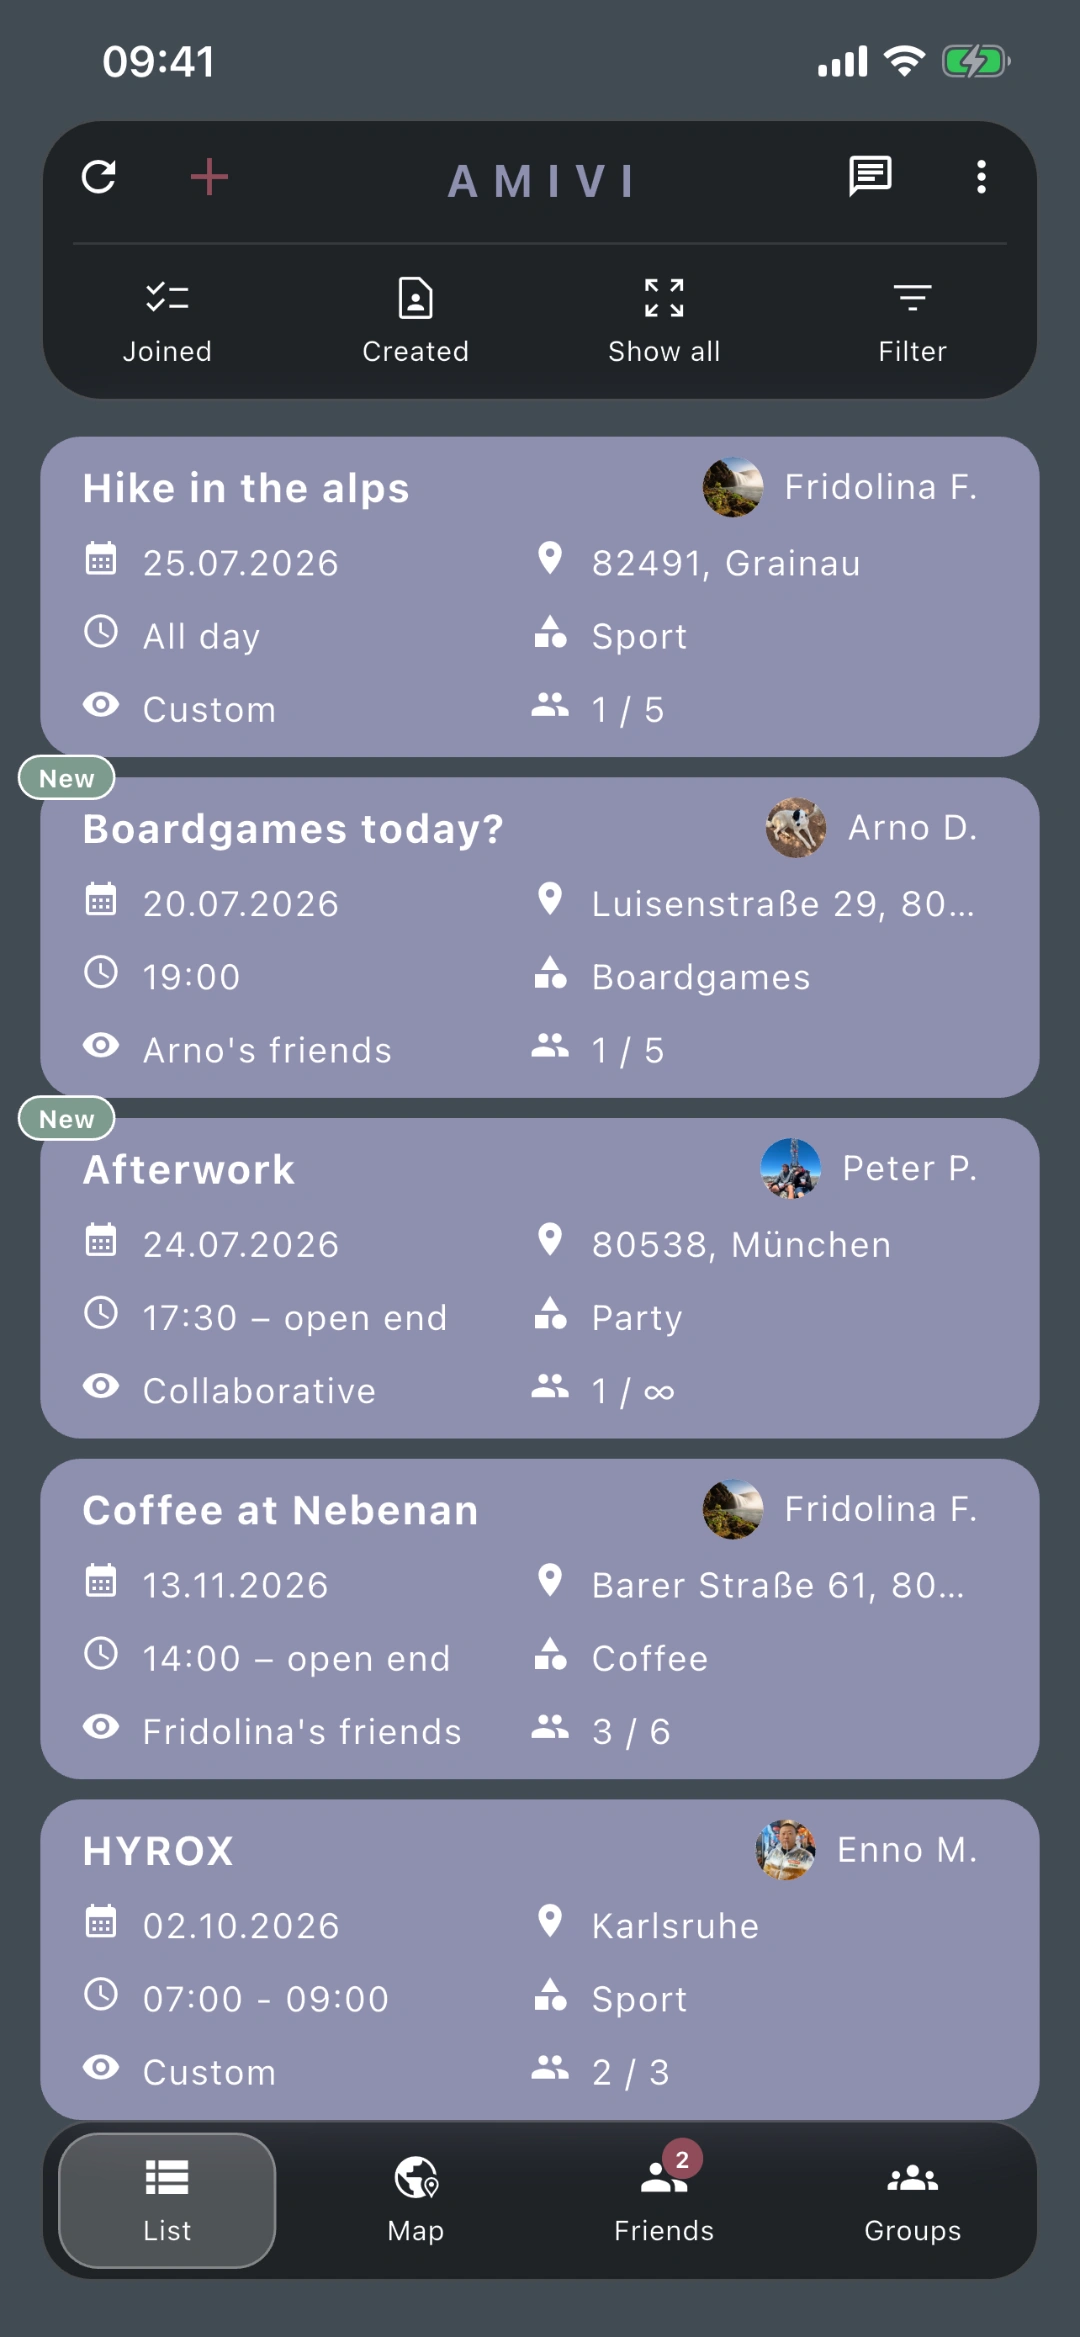
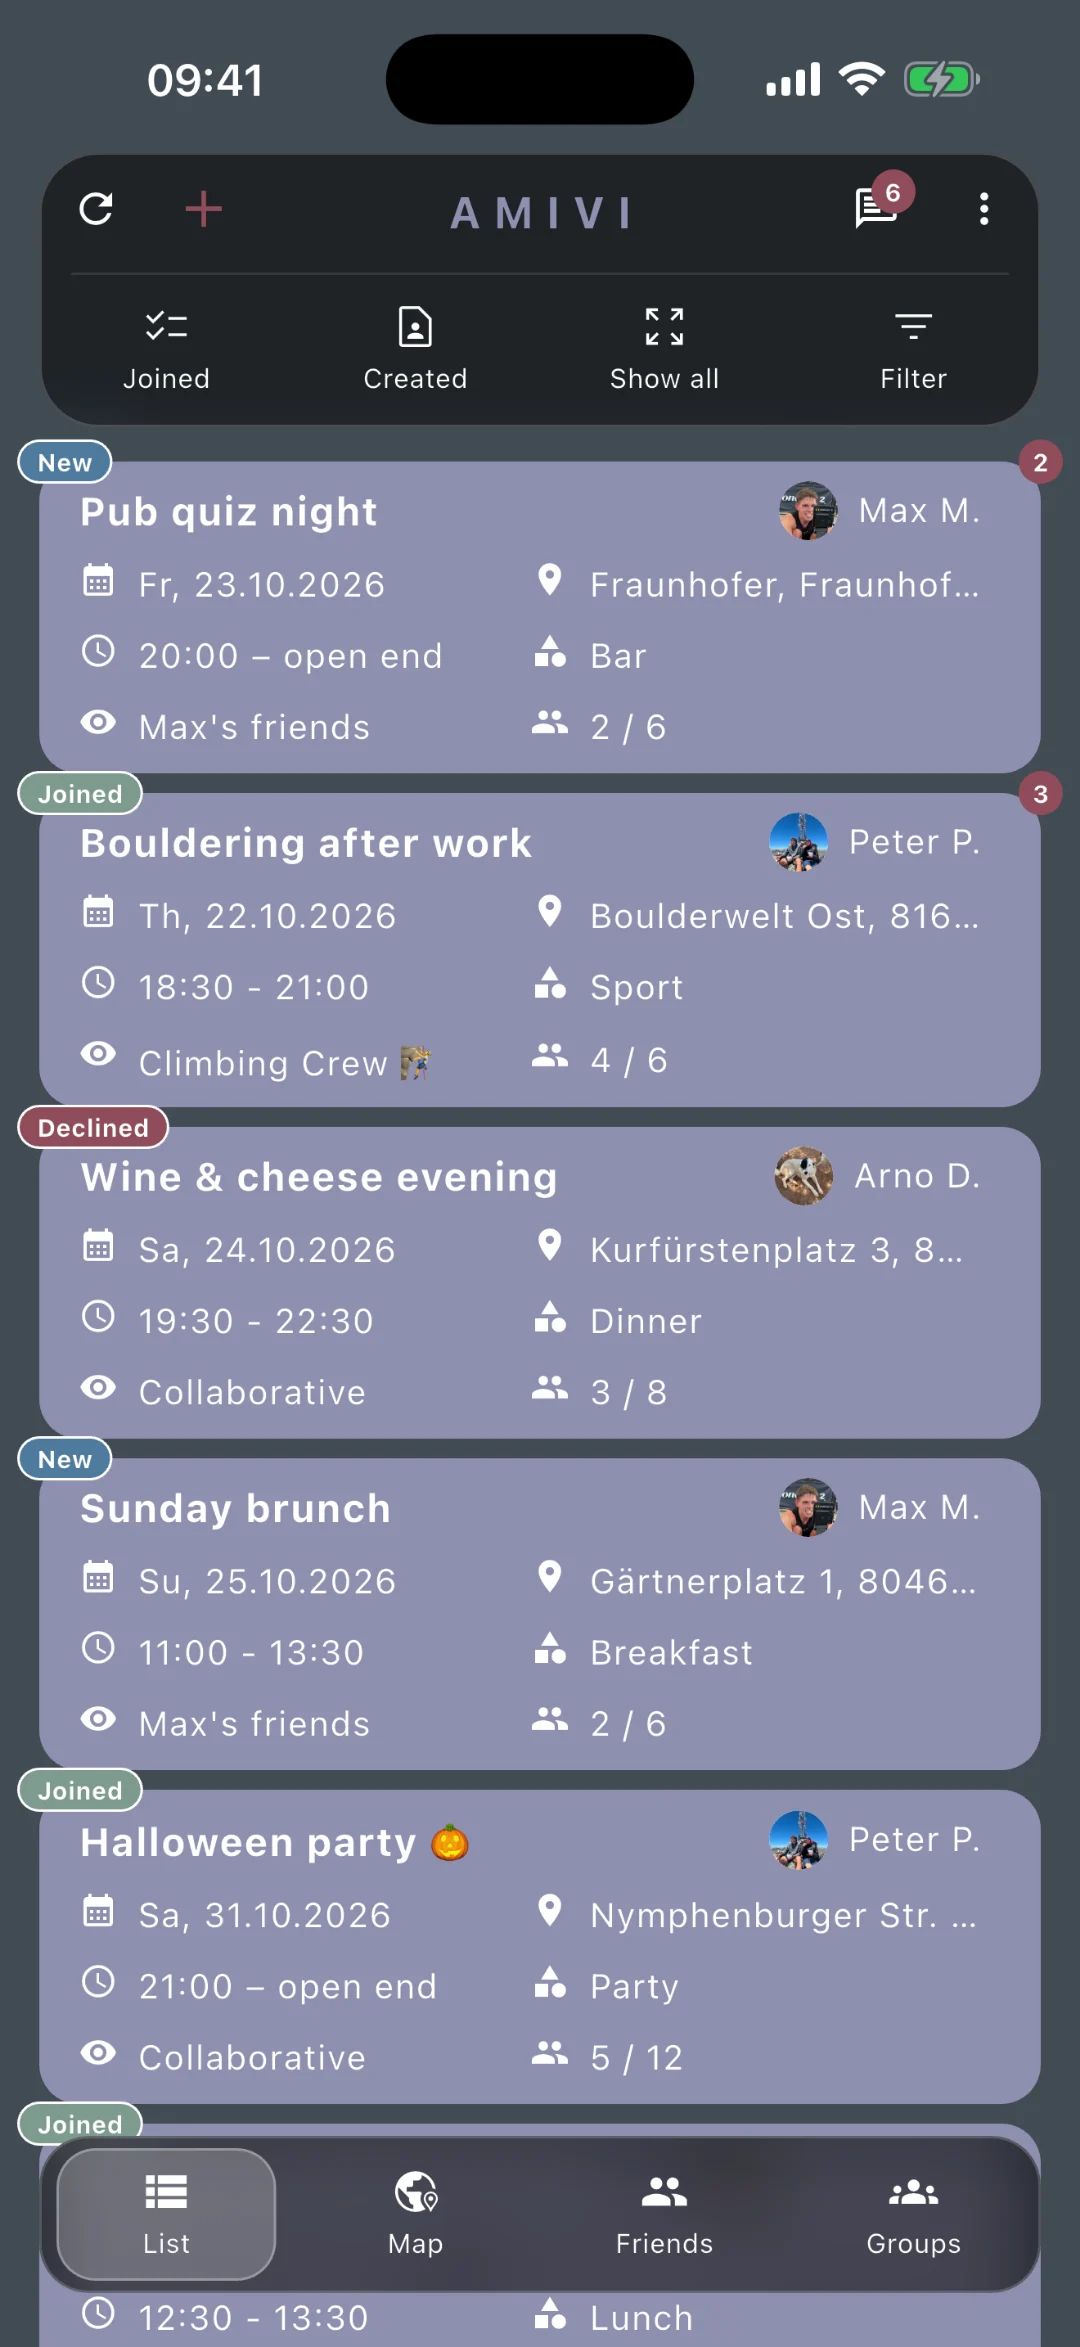
Website: neue App-Screenshots nach Design-Update
Feed, Karte, Sichtbarkeits-Auswahl und Event-Detail neu aus dem
iPhone 17 Pro Max Simulator; Seitenverhältnis 1320/2868, Alt-Texte angepasst.

diff --git a/index.html b/index.html
@@ -65,7 +65,7 @@
     <div data-reveal="" data-hero-phones="" style="position:relative;flex:0 0 auto;margin:0 auto;width:470px;height:660px">
       <div style="position:absolute;top:0;right:0;transform:rotate(6deg) scale(0.9);transform-origin:top right;opacity:0.92">
         <div style="position:relative;width:298px;border-radius:43px;padding:5px;background:#000;box-shadow:0 0 0 1.5px #2c3035,0 0 0 2.5px rgba(255,255,255,0.16),0 40px 70px -28px rgba(0,0,0,0.7)"><div style="position:absolute;left:-4px;top:110px;width:3px;height:30px;border-radius:2px 0 0 2px;background:linear-gradient(90deg,#3a3f45,#1c1f23)"></div><div style="position:absolute;left:-4px;top:160px;width:3px;height:56px;border-radius:2px 0 0 2px;background:linear-gradient(90deg,#3a3f45,#1c1f23)"></div><div style="position:absolute;left:-4px;top:230px;width:3px;height:56px;border-radius:2px 0 0 2px;background:linear-gradient(90deg,#3a3f45,#1c1f23)"></div><div style="position:absolute;right:-4px;top:90px;width:3px;height:90px;border-radius:0 2px 2px 0;background:linear-gradient(270deg,#3a3f45,#1c1f23)"></div>
-        <div style="position:relative;width:100%;aspect-ratio:1284/2778;border-radius:38px;overflow:hidden;background:#000"><div style="position:absolute;top:5px;left:50%;transform:translateX(-50%);width:86px;height:23px;background:#000;border-radius:12px;z-index:3;pointer-events:none"></div>
+        <div style="position:relative;width:100%;aspect-ratio:1320/2868;border-radius:38px;overflow:hidden;background:#000"><div style="position:absolute;top:5px;left:50%;transform:translateX(-50%);width:86px;height:23px;background:#000;border-radius:12px;z-index:3;pointer-events:none"></div>
           <img src="assets/img/screen-2.webp" alt="Amivi map screen" style="width:100%;height:100%;object-fit:cover;display:block">
         </div>
       </div>
@@ -73,7 +73,7 @@
       <div style="position:absolute;top:36px;left:0;transform:rotate(-4deg);z-index:2">
         
         <div style="position:relative;width:298px;border-radius:43px;padding:5px;background:#000;box-shadow:0 0 0 1.5px #2c3035,0 0 0 2.5px rgba(255,255,255,0.16),0 40px 70px -28px rgba(0,0,0,0.7)"><div style="position:absolute;left:-4px;top:110px;width:3px;height:30px;border-radius:2px 0 0 2px;background:linear-gradient(90deg,#3a3f45,#1c1f23)"></div><div style="position:absolute;left:-4px;top:160px;width:3px;height:56px;border-radius:2px 0 0 2px;background:linear-gradient(90deg,#3a3f45,#1c1f23)"></div><div style="position:absolute;left:-4px;top:230px;width:3px;height:56px;border-radius:2px 0 0 2px;background:linear-gradient(90deg,#3a3f45,#1c1f23)"></div><div style="position:absolute;right:-4px;top:90px;width:3px;height:90px;border-radius:0 2px 2px 0;background:linear-gradient(270deg,#3a3f45,#1c1f23)"></div>
-        <div style="position:relative;width:100%;aspect-ratio:1284/2778;border-radius:38px;overflow:hidden;background:#000"><div style="position:absolute;top:5px;left:50%;transform:translateX(-50%);width:86px;height:23px;background:#000;border-radius:12px;z-index:3;pointer-events:none"></div>
+        <div style="position:relative;width:100%;aspect-ratio:1320/2868;border-radius:38px;overflow:hidden;background:#000"><div style="position:absolute;top:5px;left:50%;transform:translateX(-50%);width:86px;height:23px;background:#000;border-radius:12px;z-index:3;pointer-events:none"></div>
           <img src="assets/img/screen-1.webp" alt="Amivi activity list" style="width:100%;height:100%;object-fit:cover;display:block">
         </div>
       </div>
@@ -99,8 +99,8 @@
           <div style="position:relative;margin-top:36px;display:flex;justify-content:center">
             <div style="position:absolute;left:50%;top:50%;width:440px;height:440px;transform:translate(-50%,-50%);border-radius:50%;background:radial-gradient(circle,rgba(142,143,175,0.5),transparent 66%);filter:blur(36px);pointer-events:none"></div>
             <div style="position:relative;width:250px;border-radius:37px;padding:4px;background:#000;box-shadow:0 0 0 1.5px #2c3035,0 0 0 2.5px rgba(255,255,255,0.16),0 30px 60px -24px rgba(0,0,0,0.7)"><div style="position:absolute;left:-3px;top:92px;width:3px;height:25px;border-radius:2px 0 0 2px;background:linear-gradient(90deg,#3a3f45,#1c1f23)"></div><div style="position:absolute;left:-3px;top:135px;width:3px;height:47px;border-radius:2px 0 0 2px;background:linear-gradient(90deg,#3a3f45,#1c1f23)"></div><div style="position:absolute;left:-3px;top:192px;width:3px;height:47px;border-radius:2px 0 0 2px;background:linear-gradient(90deg,#3a3f45,#1c1f23)"></div><div style="position:absolute;right:-3px;top:76px;width:3px;height:76px;border-radius:0 2px 2px 0;background:linear-gradient(270deg,#3a3f45,#1c1f23)"></div>
-              <div style="position:relative;width:100%;aspect-ratio:1284/2778;border-radius:33px;overflow:hidden;background:#000"><div style="position:absolute;top:4px;left:50%;transform:translateX(-50%);width:72px;height:20px;background:#000;border-radius:10px;z-index:3;pointer-events:none"></div>
-                <img src="assets/img/screen-3.webp" alt="Amivi create activity screen" style="width:100%;height:100%;object-fit:cover;display:block">
+              <div style="position:relative;width:100%;aspect-ratio:1320/2868;border-radius:33px;overflow:hidden;background:#000"><div style="position:absolute;top:4px;left:50%;transform:translateX(-50%);width:72px;height:20px;background:#000;border-radius:10px;z-index:3;pointer-events:none"></div>
+                <img src="assets/img/screen-3.webp" alt="Amivi visibility picker: choose groups and friends" style="width:100%;height:100%;object-fit:cover;display:block">
               </div>
             </div>
           </div>
@@ -133,8 +133,8 @@
           <div style="position:relative;margin-top:36px;display:flex;justify-content:center">
             <div style="position:absolute;left:50%;top:50%;width:440px;height:440px;transform:translate(-50%,-50%);border-radius:50%;background:radial-gradient(circle,rgba(58,110,126,0.75),transparent 66%);filter:blur(36px);pointer-events:none"></div>
             <div style="position:relative;width:250px;border-radius:37px;padding:4px;background:#000;box-shadow:0 0 0 1.5px #2c3035,0 0 0 2.5px rgba(255,255,255,0.16),0 30px 60px -24px rgba(0,0,0,0.7)"><div style="position:absolute;left:-3px;top:92px;width:3px;height:25px;border-radius:2px 0 0 2px;background:linear-gradient(90deg,#3a3f45,#1c1f23)"></div><div style="position:absolute;left:-3px;top:135px;width:3px;height:47px;border-radius:2px 0 0 2px;background:linear-gradient(90deg,#3a3f45,#1c1f23)"></div><div style="position:absolute;left:-3px;top:192px;width:3px;height:47px;border-radius:2px 0 0 2px;background:linear-gradient(90deg,#3a3f45,#1c1f23)"></div><div style="position:absolute;right:-3px;top:76px;width:3px;height:76px;border-radius:0 2px 2px 0;background:linear-gradient(270deg,#3a3f45,#1c1f23)"></div>
-              <div style="position:relative;width:100%;aspect-ratio:1284/2778;border-radius:33px;overflow:hidden;background:#000"><div style="position:absolute;top:4px;left:50%;transform:translateX(-50%);width:72px;height:20px;background:#000;border-radius:10px;z-index:3;pointer-events:none"></div>
-                <img src="assets/img/screen-4.webp" alt="Amivi activity participants screen" style="width:100%;height:100%;object-fit:cover;display:block">
+              <div style="position:relative;width:100%;aspect-ratio:1320/2868;border-radius:33px;overflow:hidden;background:#000"><div style="position:absolute;top:4px;left:50%;transform:translateX(-50%);width:72px;height:20px;background:#000;border-radius:10px;z-index:3;pointer-events:none"></div>
+                <img src="assets/img/screen-4.webp" alt="Amivi activity with participants" style="width:100%;height:100%;object-fit:cover;display:block">
               </div>
             </div>
           </div>
